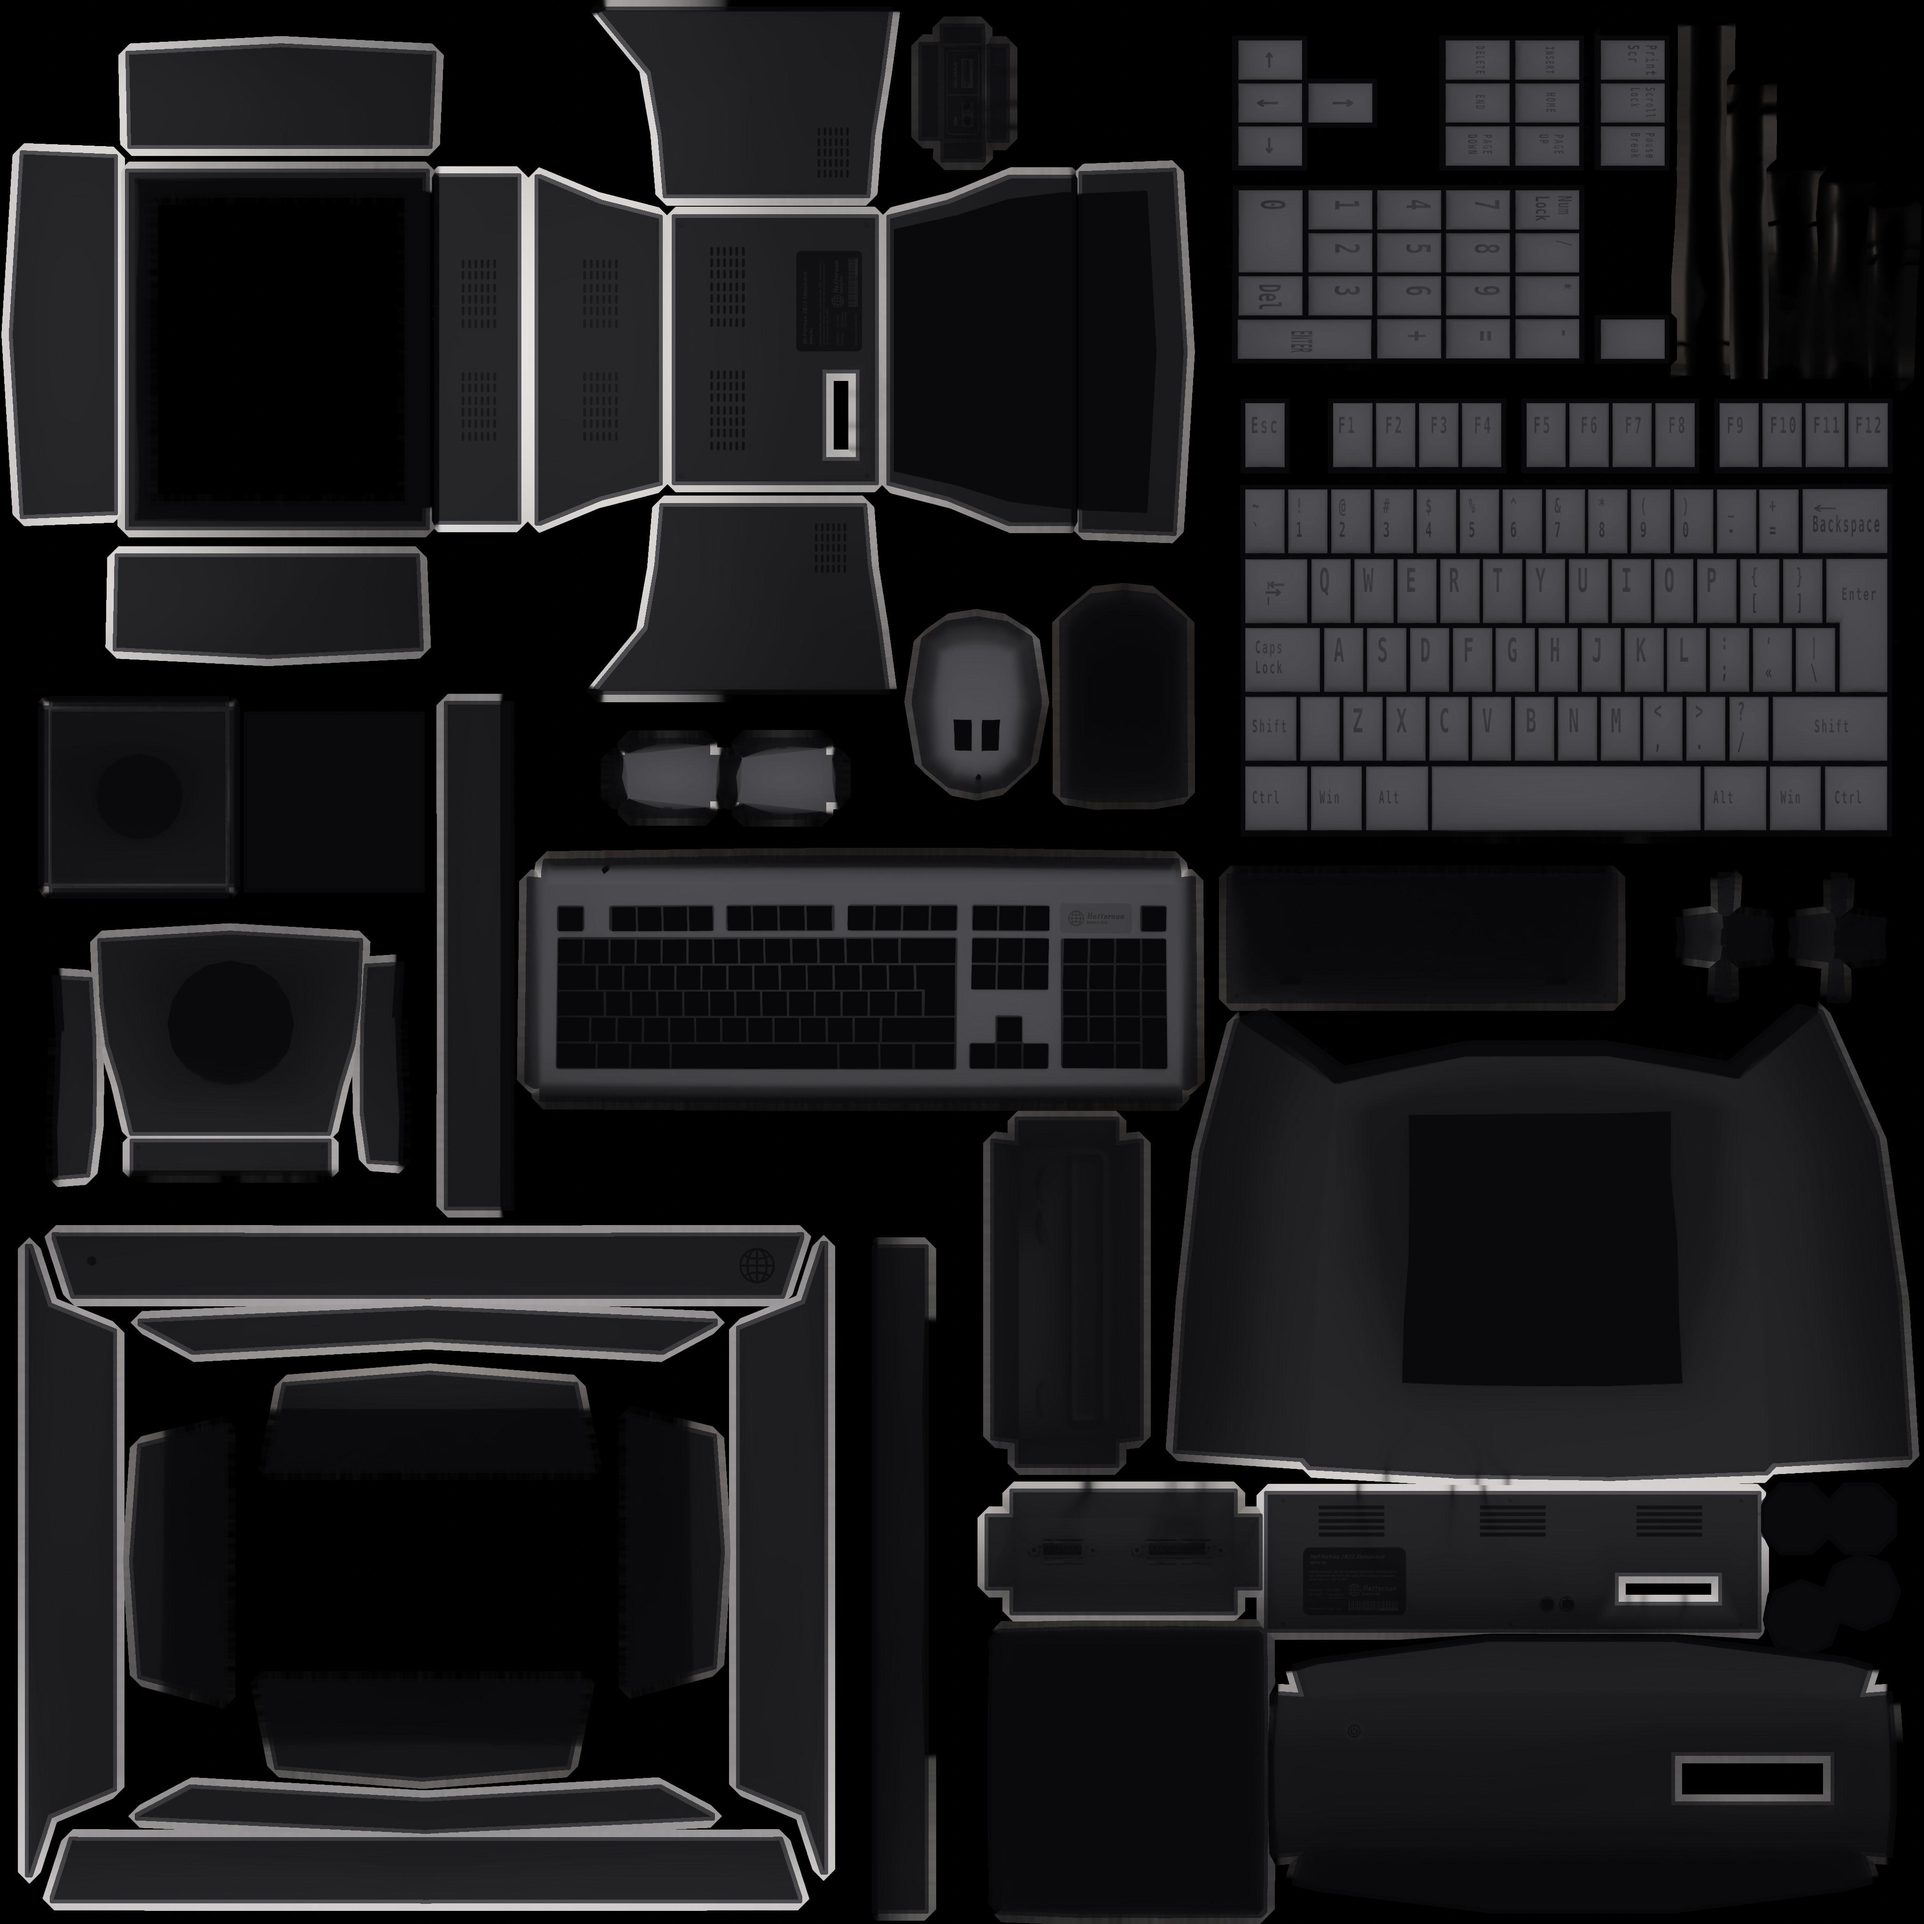
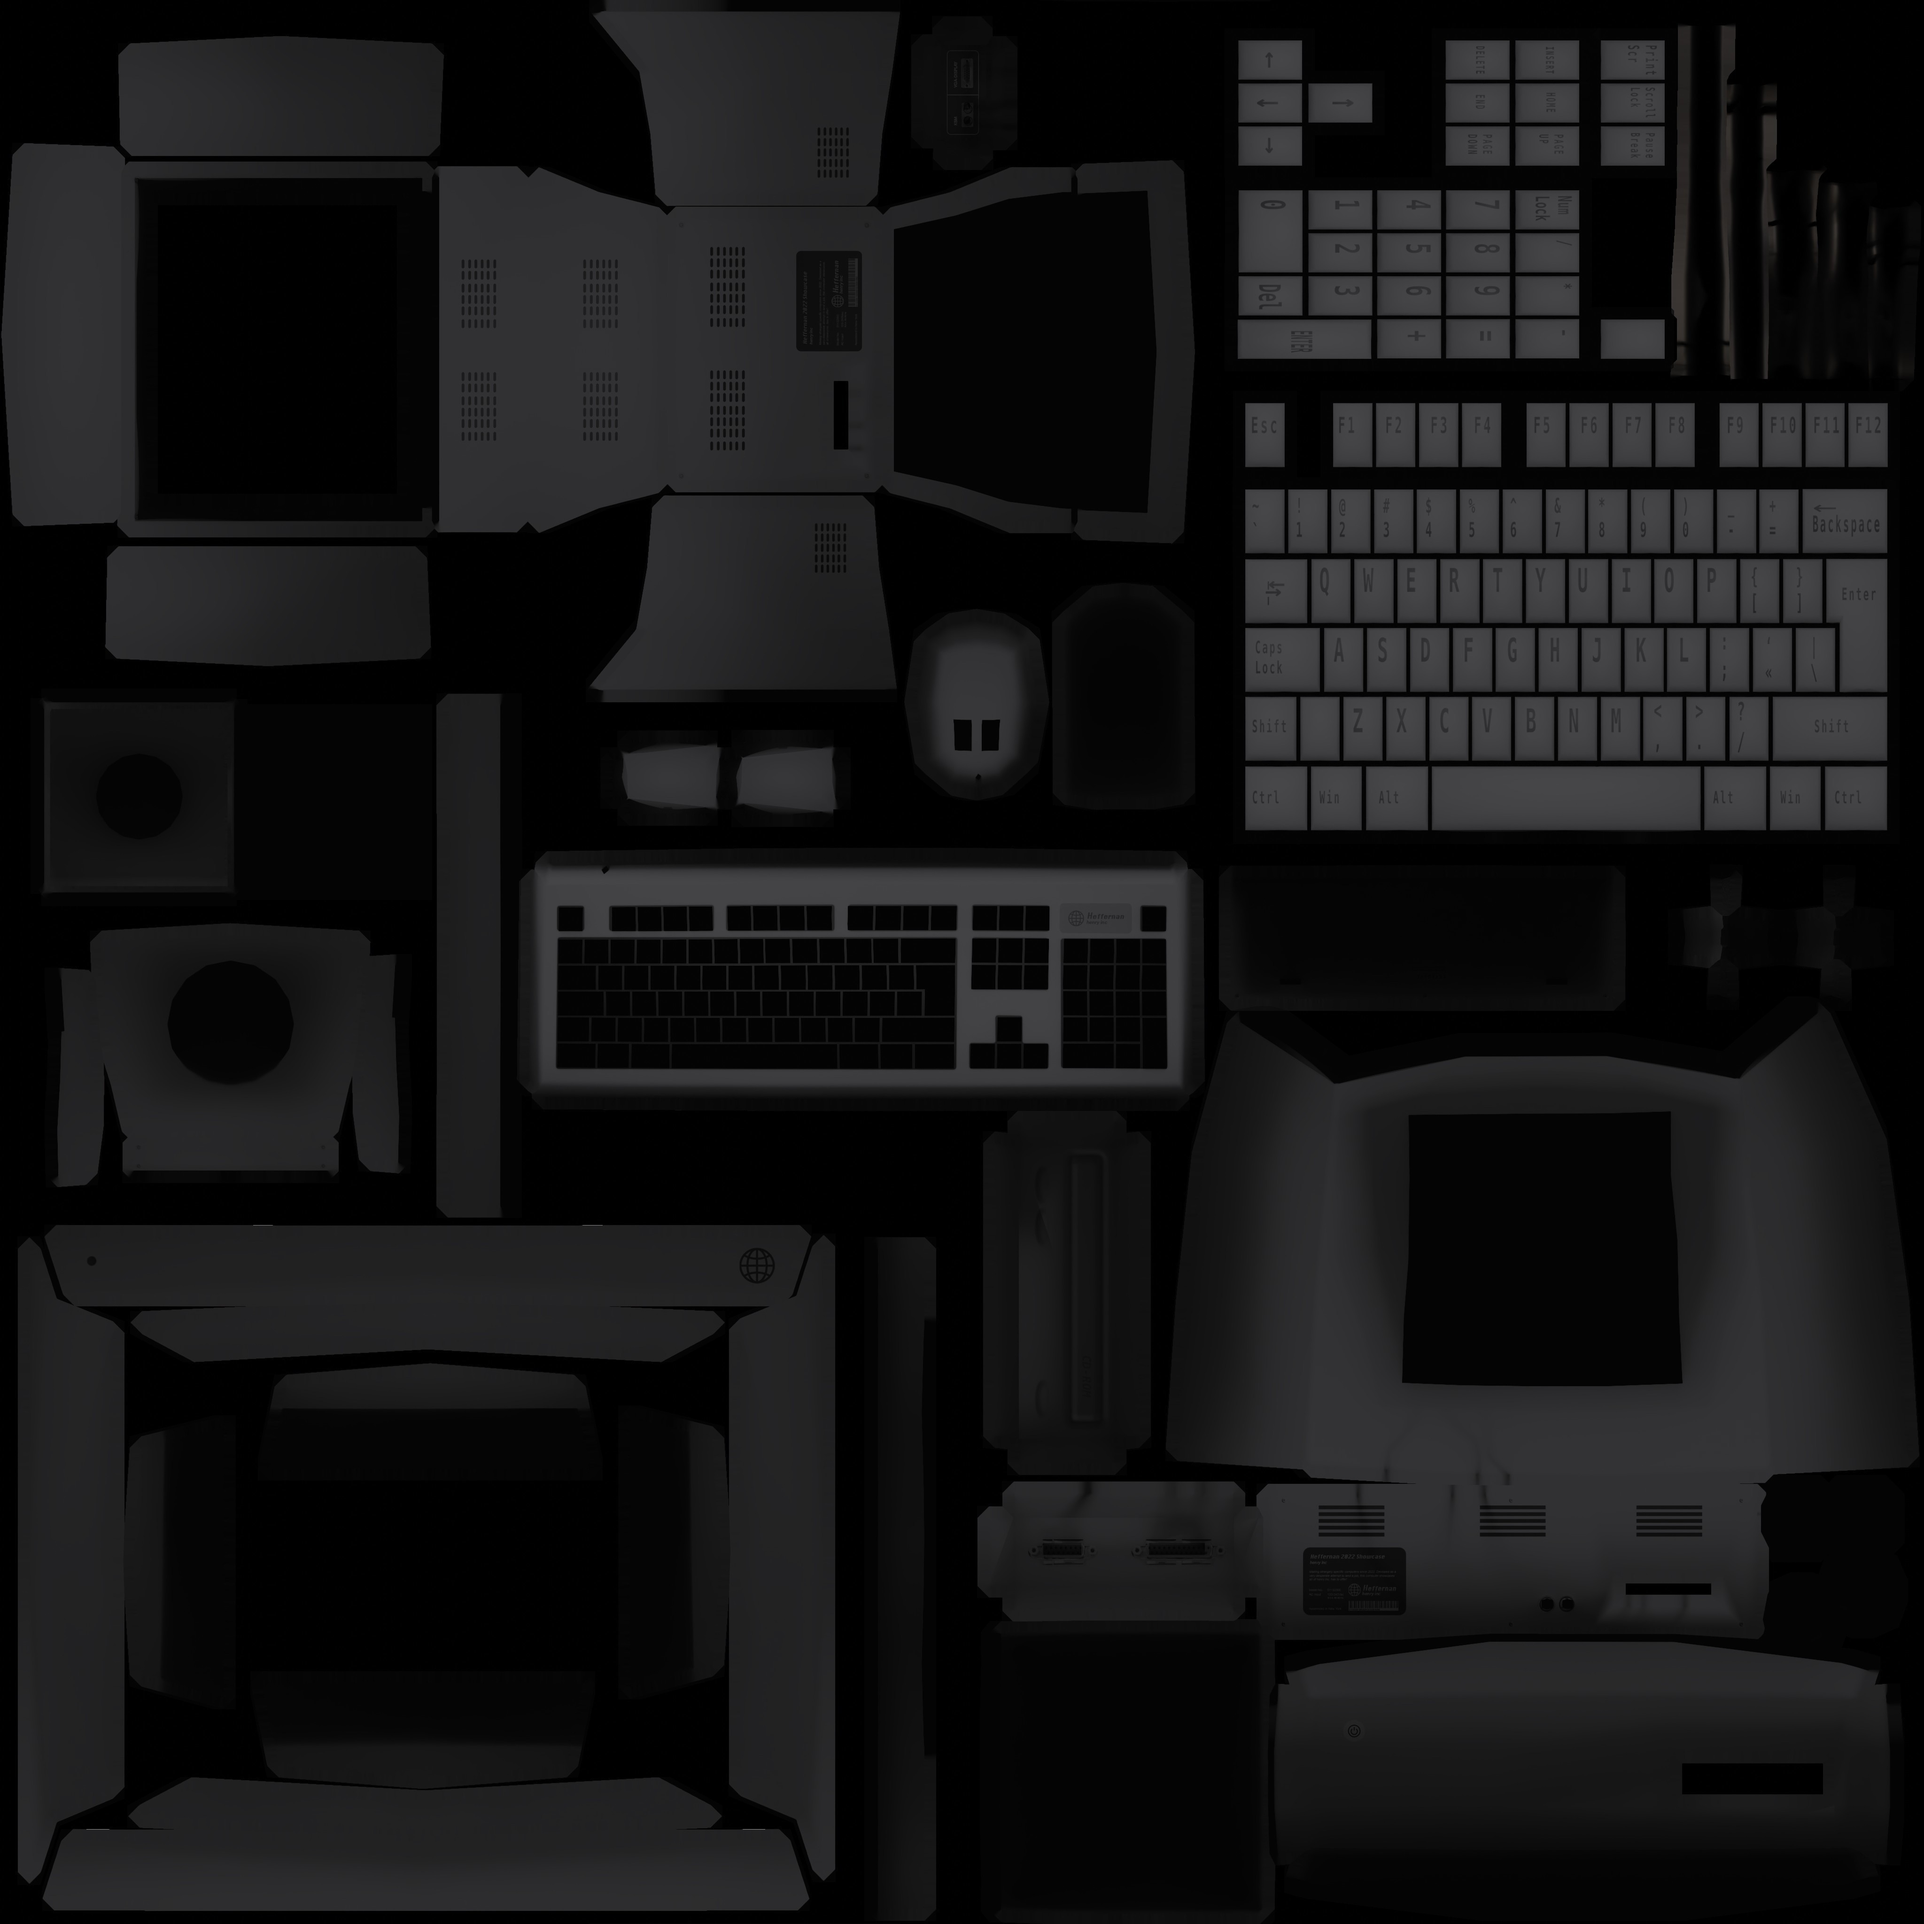
Redo the room recolors from the original bakes
The chair, computer and plant soil recolors were hand painted and left the old color around every UV island (orange rims on the chair, white outlines on the computer, a grey crescent on the soil). scripts/recolor-room.py rebuilds them from Henry's original bakes, masked by each mesh's UV islands with the bake margin redone, keeping the baked lighting.

diff --git a/scripts/recolor-room.py b/scripts/recolor-room.py
@@ -1,0 +1,253 @@
+#!/usr/bin/env python3
+"""
+recolors the baked room textures (chair, computer, plant soil).
+
+every edit starts from henry's original bakes and is masked by the real uv
+islands of each mesh, so recolors cover the whole island plus its bake margin
+instead of leaving the old color around the edges. the baked lighting is kept
+by scaling the new color with the original shading.
+
+usage: python3 scripts/recolor-room.py   (needs numpy + pillow, full git history)
+"""
+import io
+import json
+import struct
+import subprocess
+from pathlib import Path
+
+import numpy as np
+from PIL import Image, ImageDraw
+
+ROOT = Path(__file__).resolve().parent.parent
+MODELS = ROOT / 'static' / 'models'
+# the last commit before the november recolor still has the untouched bakes
+ORIGINAL_BAKES_REV = 'b35f2d4^'
+
+CHAIR_LEATHER = (48, 31, 23)  # srgb at the leather's median shade
+CHAIR_METAL_SCALE = 0.3  # linear scale for the chrome parts, 1 keeps chrome
+SOIL = (46, 33, 24)
+CHARCOAL_TINT = np.array([0.98, 0.98, 1.02], np.float32)
+# srgb luma for each part's beige plastic
+COMPUTER_PLASTIC = {'monitor_base': 0.15, 'computer': 0.15, 'mouse': 0.15, 'keyboard': 0.26}
+SOIL_UV = (0.835, 0.552)  # a point inside the soil island on the plant mesh
+GROW_PX = 24
+
+
+def read_glb_uvs(path):
+    """returns {node name: [[u0, v0, u1, v1, u2, v2], ...]}"""
+    data = path.read_bytes()
+    gltf, binary, offset = None, None, 12
+    while offset < len(data):
+        length, kind = struct.unpack_from('<II', data, offset)
+        chunk = data[offset + 8: offset + 8 + length]
+        offset += 8 + length
+        if kind == 0x4E4F534A:
+            gltf = json.loads(chunk)
+        elif kind == 0x004E4942:
+            binary = chunk
+
+    def accessor(index):
+        acc = gltf['accessors'][index]
+        view = gltf['bufferViews'][acc['bufferView']]
+        width = {'SCALAR': 1, 'VEC2': 2, 'VEC3': 3}[acc['type']]
+        dtype = np.dtype({5121: np.uint8, 5123: np.uint16, 5125: np.uint32, 5126: np.float32}[acc['componentType']])
+        start = view.get('byteOffset', 0) + acc.get('byteOffset', 0)
+        stride = view.get('byteStride', width * dtype.itemsize)
+        raw = np.frombuffer(binary, np.uint8, acc['count'] * stride, start).reshape(acc['count'], stride)
+        values = raw[:, : width * dtype.itemsize].copy().view(dtype).reshape(acc['count'], width)
+        if acc.get('normalized'):
+            values = values / np.iinfo(dtype).max
+        return values.astype(np.float64)
+
+    meshes = {}
+    for node in gltf['nodes']:
+        if 'mesh' not in node:
+            continue
+        tris = []
+        for prim in gltf['meshes'][node['mesh']]['primitives']:
+            uv = accessor(prim['attributes']['TEXCOORD_0'])
+            if 'indices' in prim:
+                idx = accessor(prim['indices'])[:, 0].astype(np.int64)
+            else:
+                idx = np.arange(len(uv))
+            tris.extend(uv[idx].reshape(-1, 6).tolist())
+        meshes[node['name']] = tris
+    return meshes
+
+
+def git_image(rev_path):
+    blob = subprocess.run(['git', 'show', rev_path], cwd=ROOT, check=True, capture_output=True).stdout
+    return to_float(Image.open(io.BytesIO(blob)))
+
+
+def to_float(img):
+    return np.asarray(img.convert('RGB')).astype(np.float32) / 255.0
+
+
+def save(arr, path):
+    Image.fromarray((np.clip(arr, 0, 1) * 255 + 0.5).astype(np.uint8)).save(path, quality=90, optimize=True)
+
+
+def raster(tris, size):
+    img = Image.new('L', (size, size), 0)
+    draw = ImageDraw.Draw(img)
+    for t in tris:
+        draw.polygon([(t[0] * size, t[1] * size), (t[2] * size, t[3] * size), (t[4] * size, t[5] * size)], fill=255)
+    return np.asarray(img) > 0
+
+
+def island_labels(meshes, size):
+    """label every uv island by mesh, then hand the bake margin to the nearest island"""
+    labels = np.zeros((size, size), np.int32)
+    for i, (_, tris) in enumerate(meshes, start=1):
+        labels[raster(tris, size) & (labels == 0)] = i
+    for _ in range(GROW_PX):
+        empty = labels == 0
+        for shift in ((0, 1), (0, -1), (1, 0), (-1, 0)):
+            moved = np.roll(labels, shift, axis=(0, 1))
+            take = empty & (moved > 0)
+            labels[take] = moved[take]
+            empty &= ~take
+    return labels
+
+
+def rebuild_margin(img, inside, region):
+    """push island edge colors back out over the margin, like the bake did"""
+    ys, xs = np.nonzero(region)
+    y0, y1, x0, x1 = max(ys.min() - 2, 0), ys.max() + 3, max(xs.min() - 2, 0), xs.max() + 3
+    out = img[y0:y1, x0:x1].copy()
+    filled = inside[y0:y1, x0:x1].copy()
+    todo = region[y0:y1, x0:x1] & ~filled
+    for _ in range(GROW_PX + 4):
+        if not todo.any():
+            break
+        total = np.zeros_like(out)
+        count = np.zeros(out.shape[:2], np.float32)
+        for shift in ((0, 1), (0, -1), (1, 0), (-1, 0)):
+            ok = np.roll(filled, shift, axis=(0, 1))
+            total += np.roll(out, shift, axis=(0, 1)) * ok[..., None]
+            count += ok
+        new = todo & (count > 0)
+        out[new] = total[new] / count[new][:, None]
+        filled |= new
+        todo &= ~new
+    result = img.copy()
+    result[y0:y1, x0:x1] = out
+    return result
+
+
+def to_linear(c):
+    return np.where(c <= 0.04045, c / 12.92, ((c + 0.055) / 1.055) ** 2.4)
+
+
+def to_srgb(c):
+    c = np.clip(c, 0, 1)
+    return np.where(c <= 0.0031308, c * 12.92, 1.055 * np.power(c, 1 / 2.4) - 0.055)
+
+
+def lum(rgb):
+    return rgb[..., 0] * 0.2126 + rgb[..., 1] * 0.7152 + rgb[..., 2] * 0.0722
+
+
+def reshade(orig, color, ref_mask):
+    """new albedo times the original's lighting ratio, done in linear light"""
+    lin = to_linear(orig)
+    y = lum(lin)
+    target = to_linear(np.array(color, np.float32) / 255)
+    return to_srgb(target * (y / np.median(y[ref_mask]))[..., None]), lin
+
+
+def smoothstep(e0, e1, x):
+    t = np.clip((x - e0) / (e1 - e0), 0, 1)
+    return t * t * (3 - 2 * t)
+
+
+def environment():
+    orig = git_image(f'{ORIGINAL_BAKES_REV}:static/models/World/baked_environment.jpg')
+    uv = read_glb_uvs(MODELS / 'World' / 'environment.glb')
+    names = ['Background', 'desk', 'chair_base', 'chair_seat']
+    labels = island_labels([(n, uv[n]) for n in names], orig.shape[0])
+    seat = labels == names.index('chair_seat') + 1
+    # leather is the saturated warm part of the seat, the rest is chrome and black plastic
+    spread = orig.max(axis=-1) - orig.min(axis=-1)
+    sat = np.where(orig.max(axis=-1) > 1e-4, spread / np.maximum(orig.max(axis=-1), 1e-4), 0)
+    leather_w = smoothstep(0.15, 0.32, sat) * (orig[..., 0] > orig[..., 2] + 0.04) * seat
+    leather, lin = reshade(orig, CHAIR_LEATHER, seat & (leather_w > 0.9))
+    metal = to_srgb(lin * CHAIR_METAL_SCALE)
+    w = leather_w[..., None]
+    out = orig.copy()
+    out[seat] = (w * leather + (1 - w) * metal)[seat]
+    return rebuild_margin(out, raster(uv['chair_seat'], orig.shape[0]), seat)
+
+
+def computer():
+    orig = git_image(f'{ORIGINAL_BAKES_REV}:static/models/Computer/baked_computer.jpg')
+    uv = read_glb_uvs(MODELS / 'Computer' / 'computer_setup.glb')
+    names = list(uv)
+    labels = island_labels([(n, uv[n]) for n in names], orig.shape[0])
+    luma = lum(orig)
+    out = orig.copy()
+    black = 0.02
+    for i, name in enumerate(names, start=1):
+        if name not in COMPUTER_PLASTIC:
+            continue
+        part = labels == i
+        # the background is black, so the margin maps to black and needs no rebuild
+        scale = (COMPUTER_PLASTIC[name] - black) / max(np.percentile(luma[part], 75) - black, 1e-3)
+        shade = np.clip(luma * scale + black * (1 - scale), 0, 1)
+        out[part] = (shade[..., None] * CHARCOAL_TINT)[part]
+    return out
+
+
+def point_in_triangle(t, u, v):
+    x0, y0, x1, y1, x2, y2 = t
+    d = (y1 - y2) * (x0 - x2) + (x2 - x1) * (y0 - y2)
+    if abs(d) < 1e-12:
+        return False
+    a = ((y1 - y2) * (u - x2) + (x2 - x1) * (v - y2)) / d
+    b = ((y2 - y0) * (u - x2) + (x0 - x2) * (v - y2)) / d
+    return a >= 0 and b >= 0 and a + b <= 1
+
+
+def uv_island(tris, u, v):
+    """the island (triangles sharing uv verts) that contains the point"""
+    parent = list(range(len(tris)))
+
+    def find(i):
+        while parent[i] != i:
+            parent[i] = parent[parent[i]]
+            i = parent[i]
+        return i
+
+    owner = {}
+    for i, t in enumerate(tris):
+        for k in range(3):
+            key = (round(t[2 * k], 5), round(t[2 * k + 1], 5))
+            if key in owner:
+                parent[find(i)] = find(owner[key])
+            else:
+                owner[key] = i
+    hit = next(i for i, t in enumerate(tris) if point_in_triangle(t, u, v))
+    return [t for i, t in enumerate(tris) if find(i) == find(hit)]
+
+
+def decor():
+    orig = to_float(Image.open(MODELS / 'Decor' / 'baked_decor.jpg'))
+    uv = read_glb_uvs(MODELS / 'Decor' / 'decor.glb')
+    soil = uv_island(uv['plant'], *SOIL_UV)
+    soil_set = {tuple(t) for t in soil}
+    meshes = [(n, t) for n, t in uv.items() if n != 'plant']
+    meshes += [('plant', [t for t in uv['plant'] if tuple(t) not in soil_set]), ('soil', soil)]
+    region = island_labels(meshes, orig.shape[0]) == len(meshes)
+    luma = lum(orig)
+    painted, _ = reshade(orig, SOIL, region & (luma > np.percentile(luma[region], 40)))
+    out = orig.copy()
+    out[region] = painted[region]
+    return rebuild_margin(out, raster(soil, orig.shape[0]), region)
+
+
+if __name__ == '__main__':
+    save(environment(), MODELS / 'World' / 'baked_environment.jpg')
+    save(computer(), MODELS / 'Computer' / 'baked_computer.jpg')
+    save(decor(), MODELS / 'Decor' / 'baked_decor_modified.jpg')
+    print('wrote baked_environment.jpg, baked_computer.jpg, baked_decor_modified.jpg')

diff --git a/AGENT.md b/AGENT.md
@@ -38,6 +38,12 @@ Implement Nürburgring Nordschleife racing mini-game inside existing portfolio w
 - Camera near plane is 200 on purpose: at 10 those layers z-fight from the default views.
 - A shared `GLTFLoader` plugin sets `transmission = 0` on every material. Any transmissive
   material makes three re-render the whole scene into an offscreen target each frame.
+- Window tint and repaints are data in `carOptions.ts` (`windowTint`, `paint`), applied by
+  `Utils/CarFinish.ts` in both the site view and race mode. Opacity reads like film darkness
+  (0.8 is about a 20% tint). Lamp lenses that share a glass material are skipped by height/size.
+- The room textures are baked lighting, so don't recolor them in an image editor: it leaves the
+  old color around every UV island. Edit the colors in `scripts/recolor-room.py` and rerun it;
+  it starts from Henry's original bakes (git history) and masks by the meshes' UV islands.
 
 ## Runtime Notes
 - Requires Node 20.10 or newer (`engines` in `package.json`), Node 22 LTS recommended: webpack-cli 7
